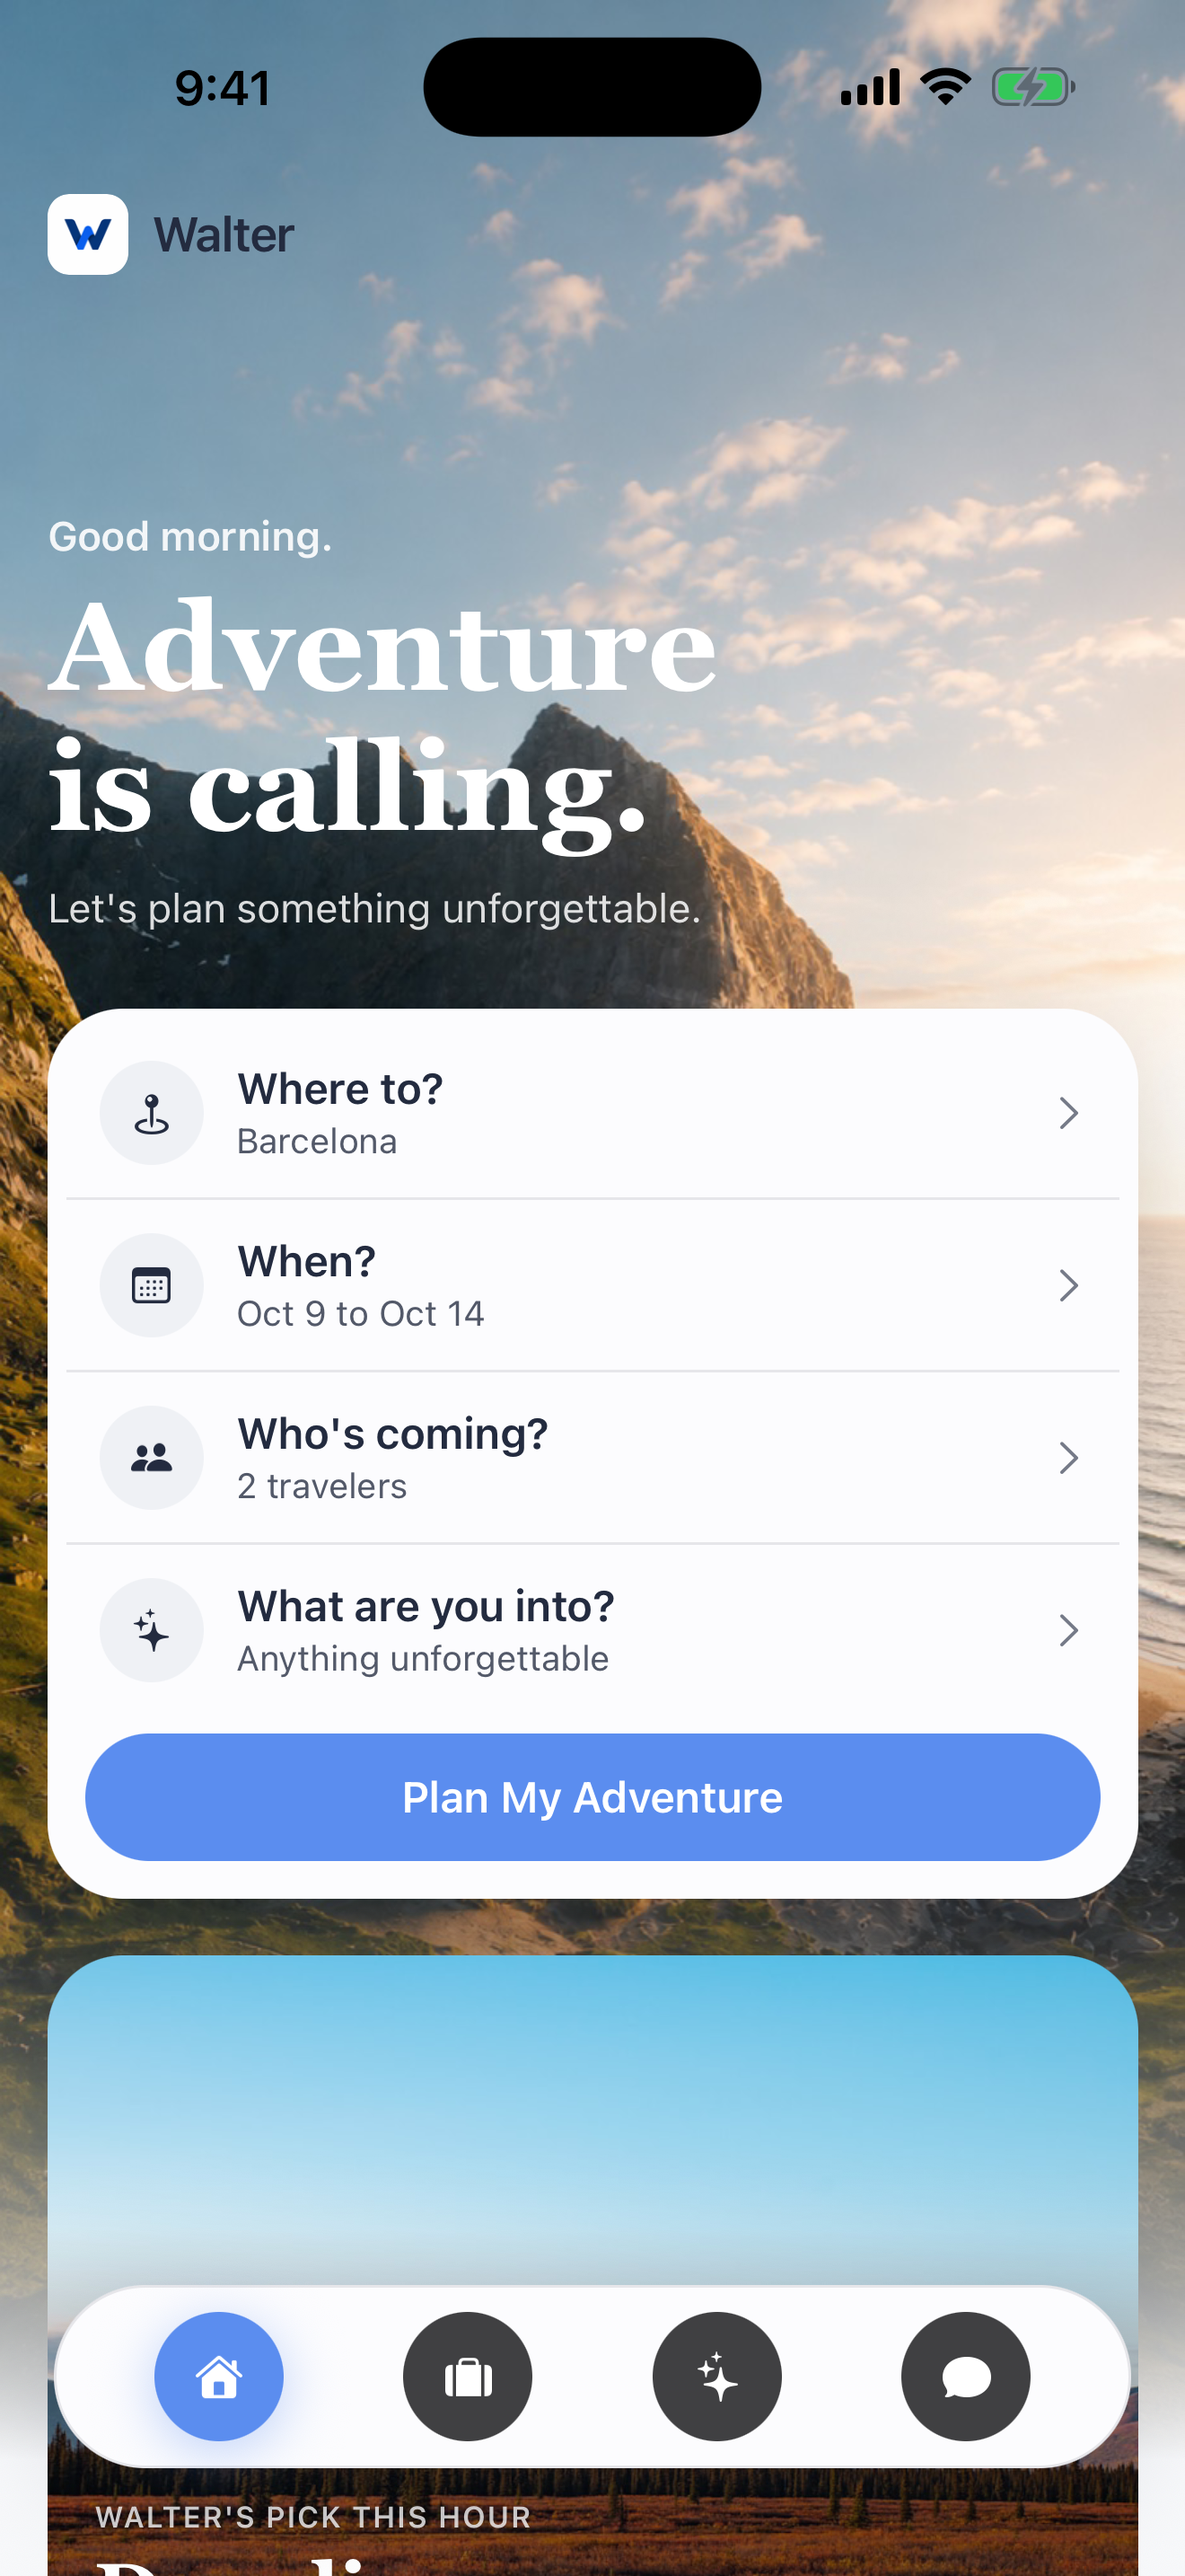
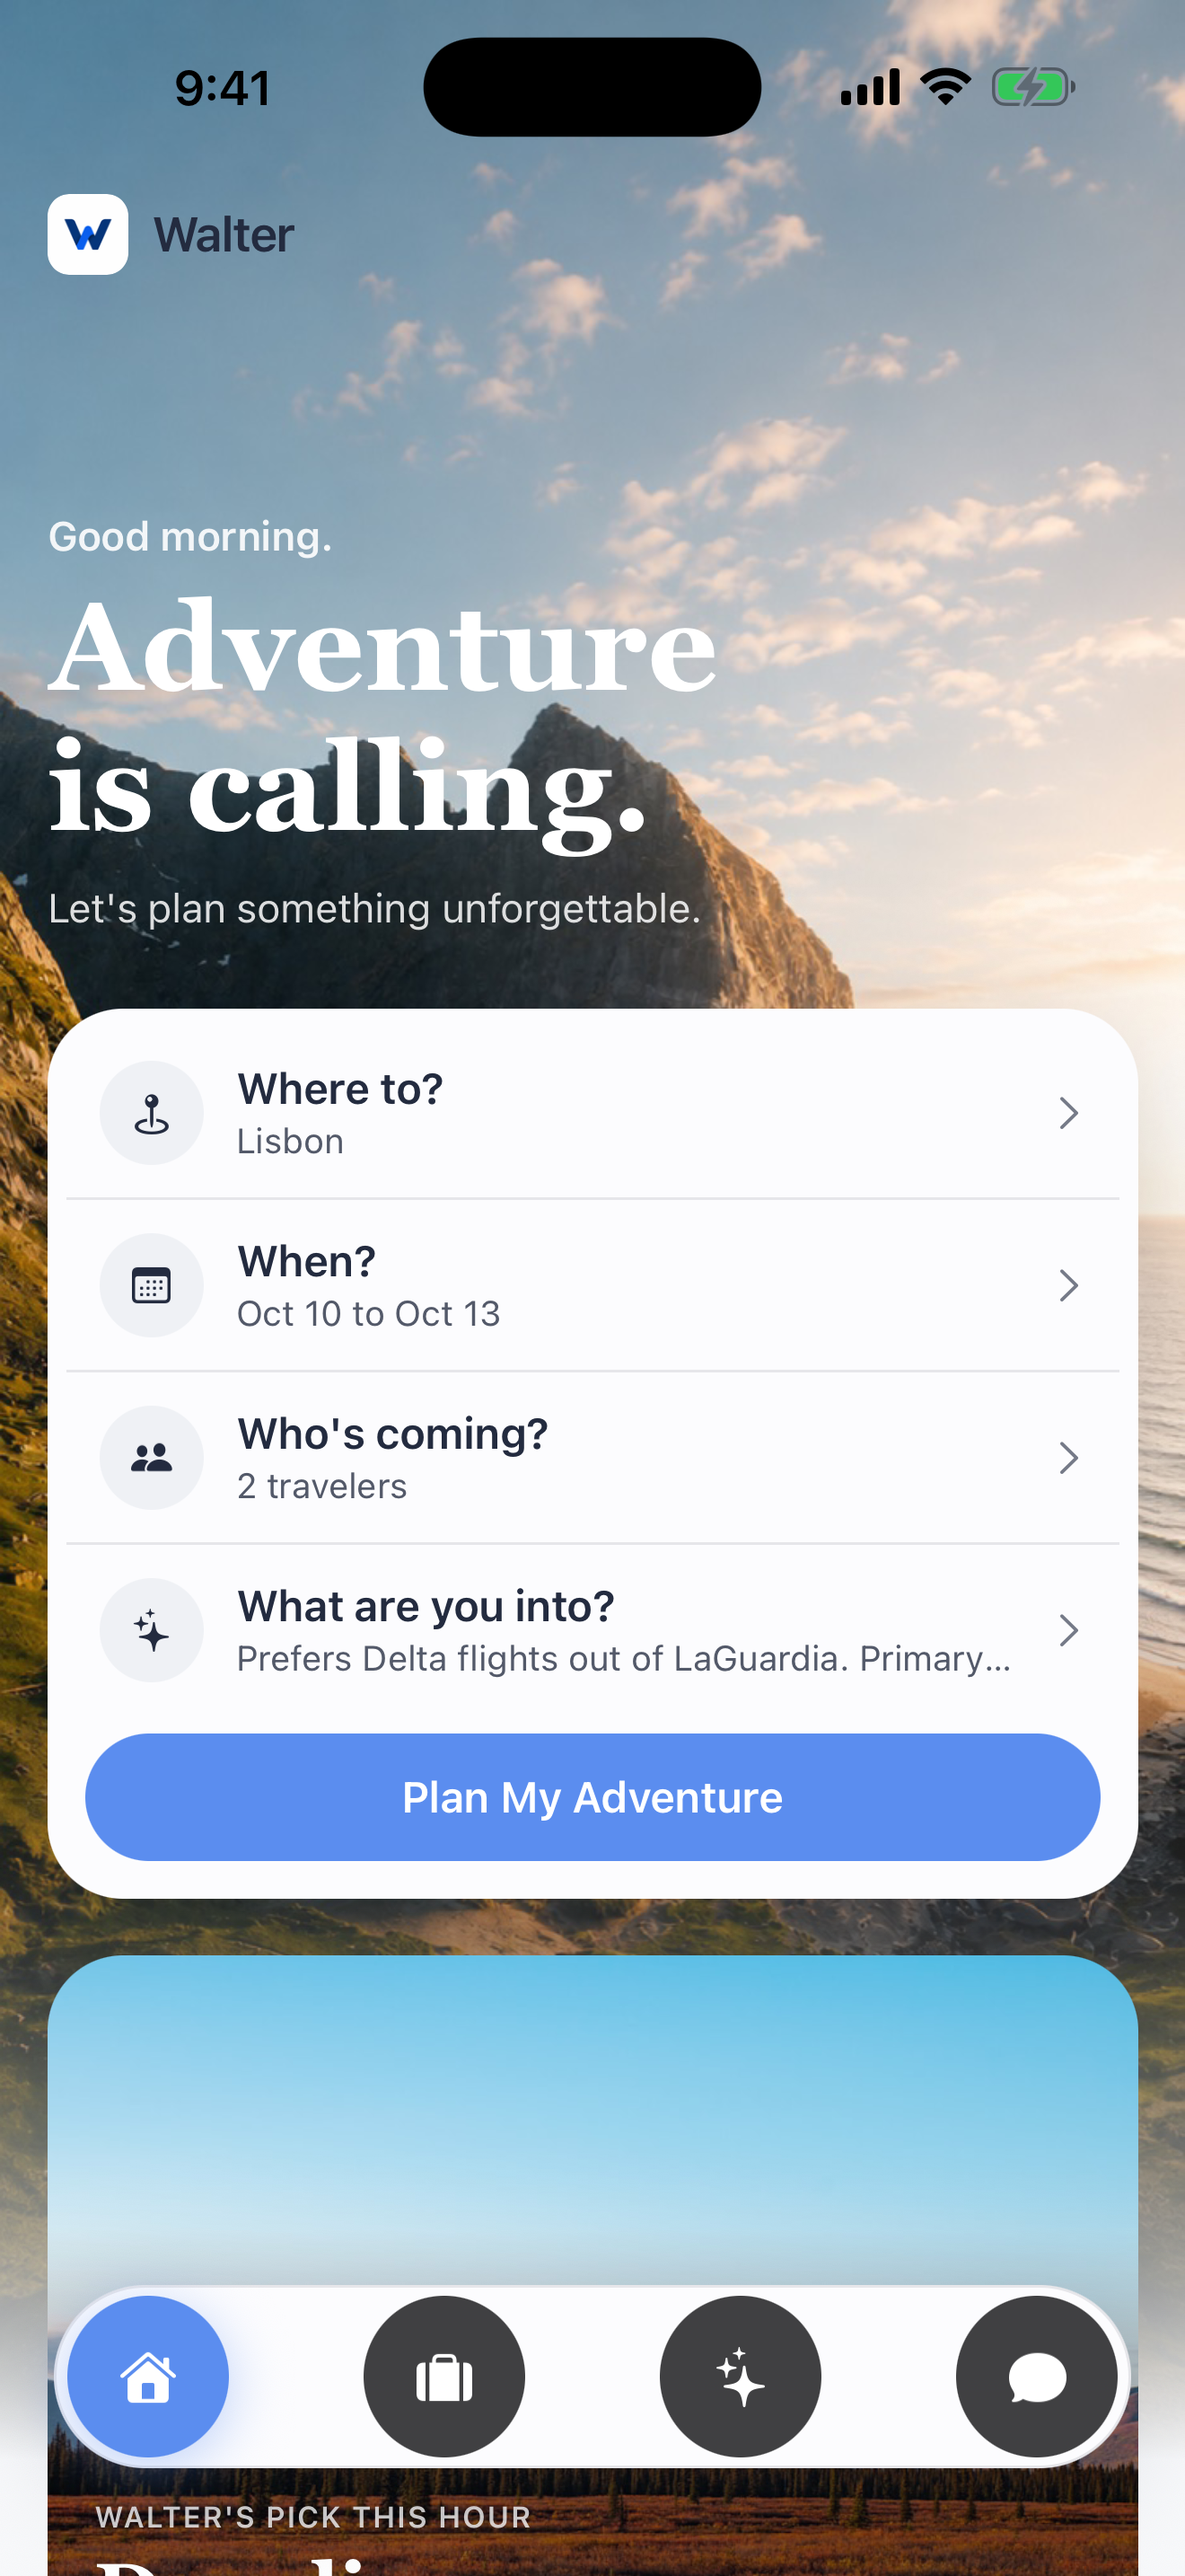
Refresh store screenshots for new tab bar and chat; session log

diff --git a/SESSION_CHANGES.md b/SESSION_CHANGES.md
@@ -1,5 +1,28 @@
 # Session changes - 2026-08-20
 
+## Walter chat concierge + Trey's live punch list (same session, cont.)
+
+- Walter chat shipped on both surfaces: `POST /api/chat` (Claude Haiku,
+  persona prompt, propose_trip tool returning structured TripPrefs),
+  mobile Chat tab, web floating widget. Walter asks ONE bolded question
+  per message; clients render **bold** in iMessage-gray bubbles.
+- Trip proposal cards rebuilt: destination photo, when/who/budget/from
+  rows, vibe chips, preference note, CTA. Opening a chat trip on web now
+  clears stale `walter_trip` (the Jamaica-opened-as-New-York bug).
+- Mobile: four-circle tab bar (Home/Trips/Quick plan/Chat) with
+  full-height circles hugging the pill; hourly rotating Walter's pick
+  card on Home; hero backdrop fixed (page scrolls over it); Add to Trip
+  buttons were invisible because a Pressable style-FUNCTION gets dropped
+  under NativeWind interop — plain style objects only; results cart
+  pill un-doubled (iOS supplies the capsule).
+- Web: dark textured hero (#0C182E, grain + dot grid) with floating
+  trip cards left/right, white nav over it, 17px nav links, black
+  Walter's-pick badge.
+- Store screenshots refreshed: 01-home (new tab bar + pick card),
+  02-chat (Isla Holbox conversation). Builds #4/#5 sit in TestFlight
+  unused; build #6 is the submission candidate. DO NOT submit for
+  review without Trey.
+
 ## App Store submission run (pre-Brennan-meeting push)
 
 - EAS production build #4 (v1.0.0) built and uploaded to App Store
